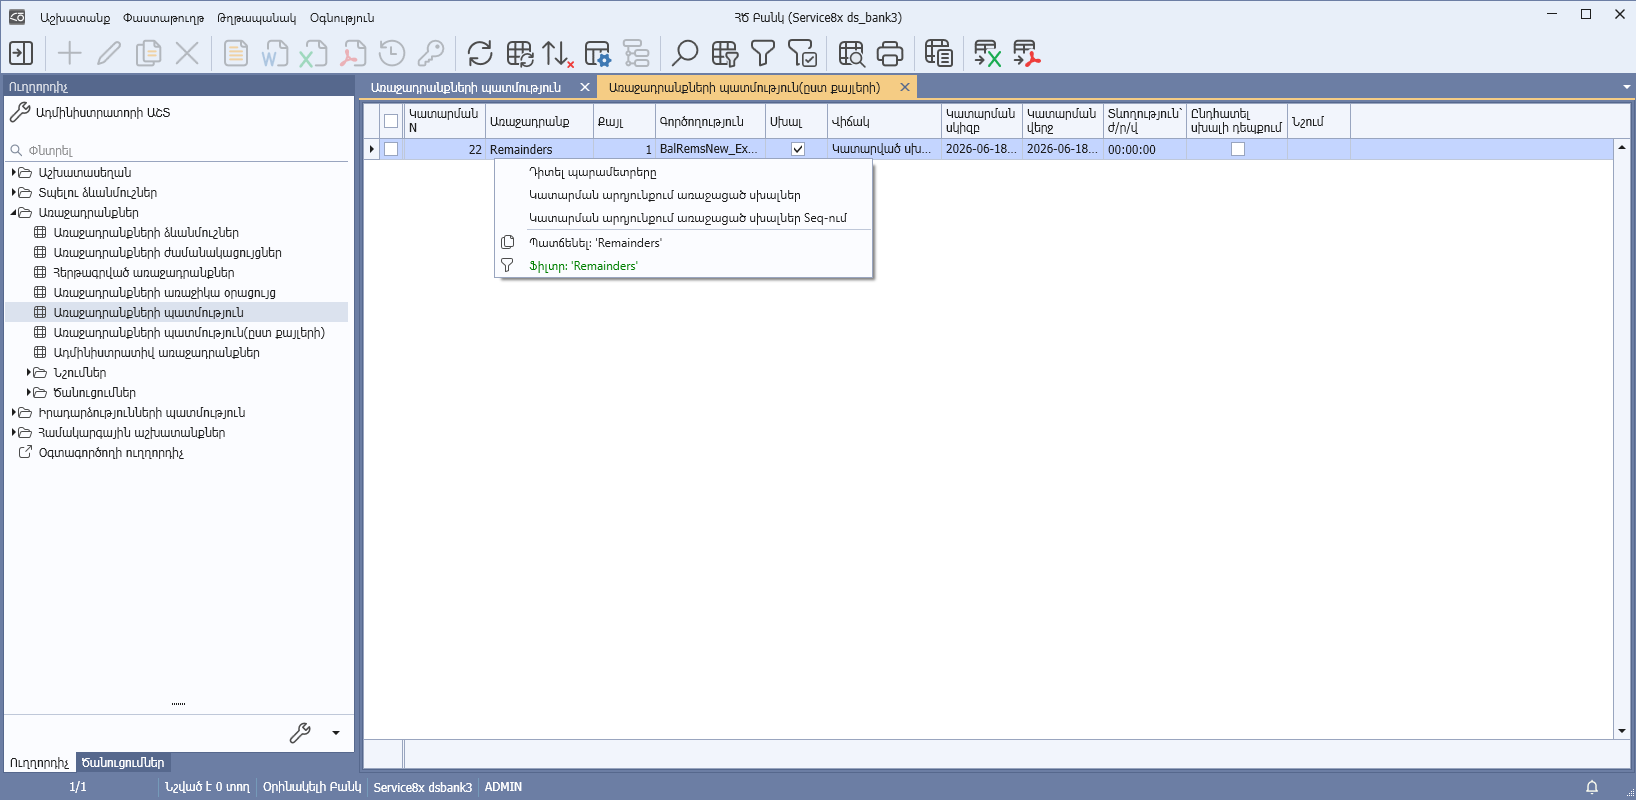
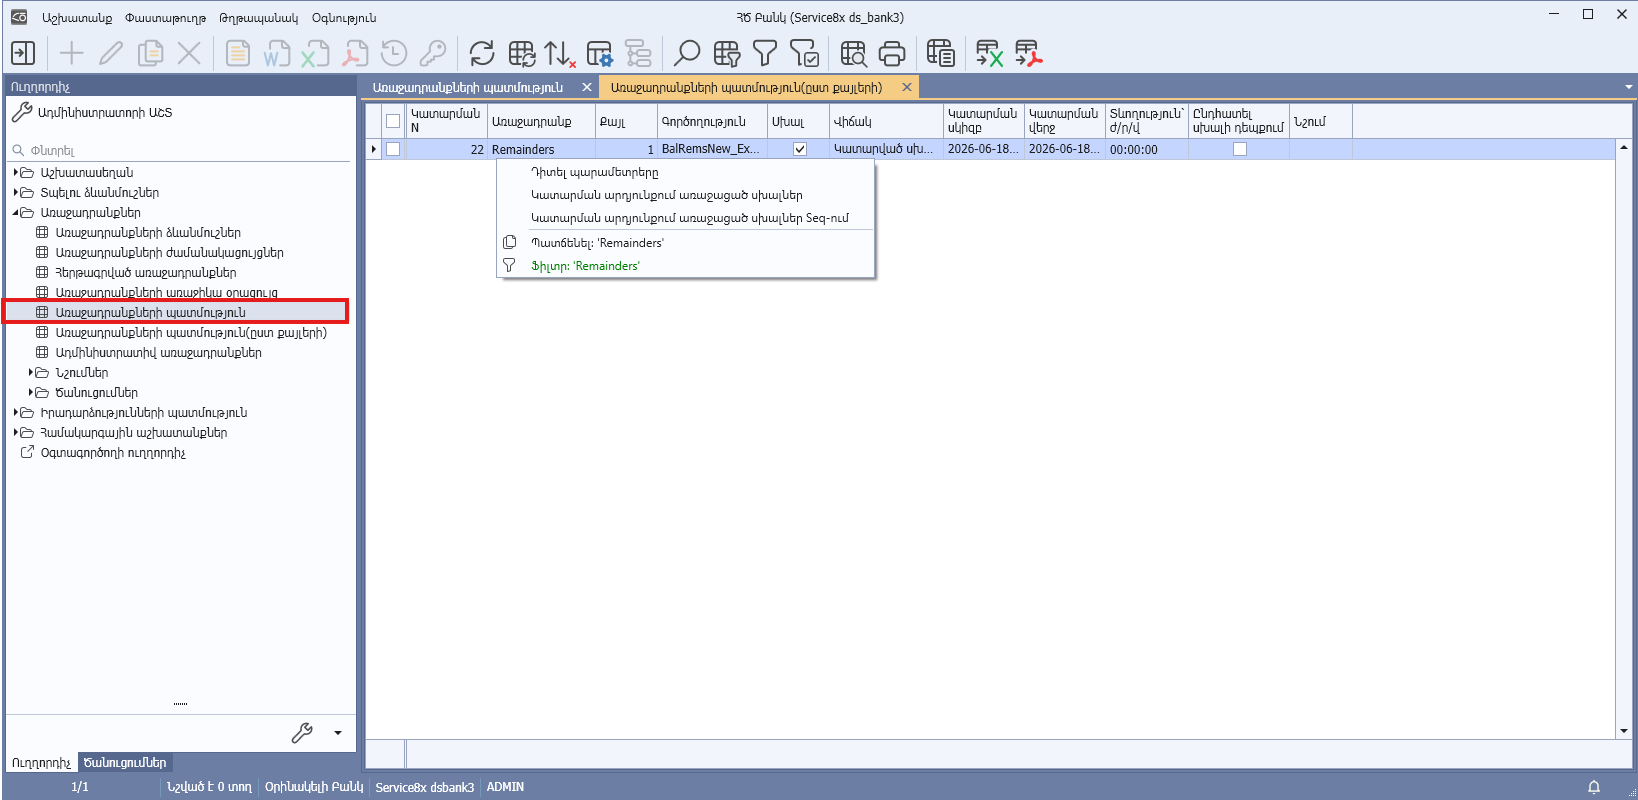
Edited job images 1

diff --git a/src/ui/jobs.md b/src/ui/jobs.md
@@ -125,9 +125,8 @@ title: "Առաջադրանքների փաստաթղթեր և դիտելու ձև
 | Օգտագործողի կոդ        | Այն օգտագործողի կոդը, որի անունից կատարվում է առաջադրանքը։ <br> Լռությամբ լրացվում է ընթացիկ ձևանմուշի [«Օգտագործողի կոդ»](#առաջադրանքի-ձևանմուշ) դաշտի արժեքով, իսկ դատարկ լինելու դեպքում՝ ընթացիկ սեսիայի օգտագործողի կոդով։ |
 | Սերվիս                 | Այն վեբ ծառայության (սերվիսի) id-ն, որի վրա գործարկվելու է առաջադրանքը։ <br> Լռությամբ լրացվում է ընթացիկ ձևանմուշի [«Սերվիս»](#առաջադրանքի-ձևանմուշ) դաշտի արժեքով։ |
 | Ընտ․                   | Գործողության կատարման հայտանիշ։                                   |
-| Քայլ N                 | Գործողության համարը, որը սահմանում է դրա կատարման հաջորդականությունը։                                   |
-| Գործողություն          | Գործողությունում կանչվող տվյալների մշակման հարցման (DPR) կոդը:                        |
-| Գործողության անվանում  | Կանչվող տվյալների մշակման հարցման (DPR) հայերեն անվանումը: Լրացվում է ավտոմատ կերպով՝ «Գործողություն» դաշտը լրացնելիս և ենթակա չէ խմբագրման։          |
+
+**«Քայլ N»**, **«Գործողություն»** և **«Գործողության անվանում»** ոչ խմբագրելի դաշտերի նկարագրությունը ներկայացված է [«Առաջադրանքի քայլեր»](#առաջադրանքի-քայլեր) բաժնում։
 
 Գործողության պարամետրերի, ծանուցման տարբերակի և ծանուցվող խմբերի նկարագրությունը ներկայացված է [«Առաջադրանքի ընթացիկ քայլի պարամետրեր»](#առաջադրանքի-ընթացիկ-քայլի-պարամետրեր) բաժնում։
 